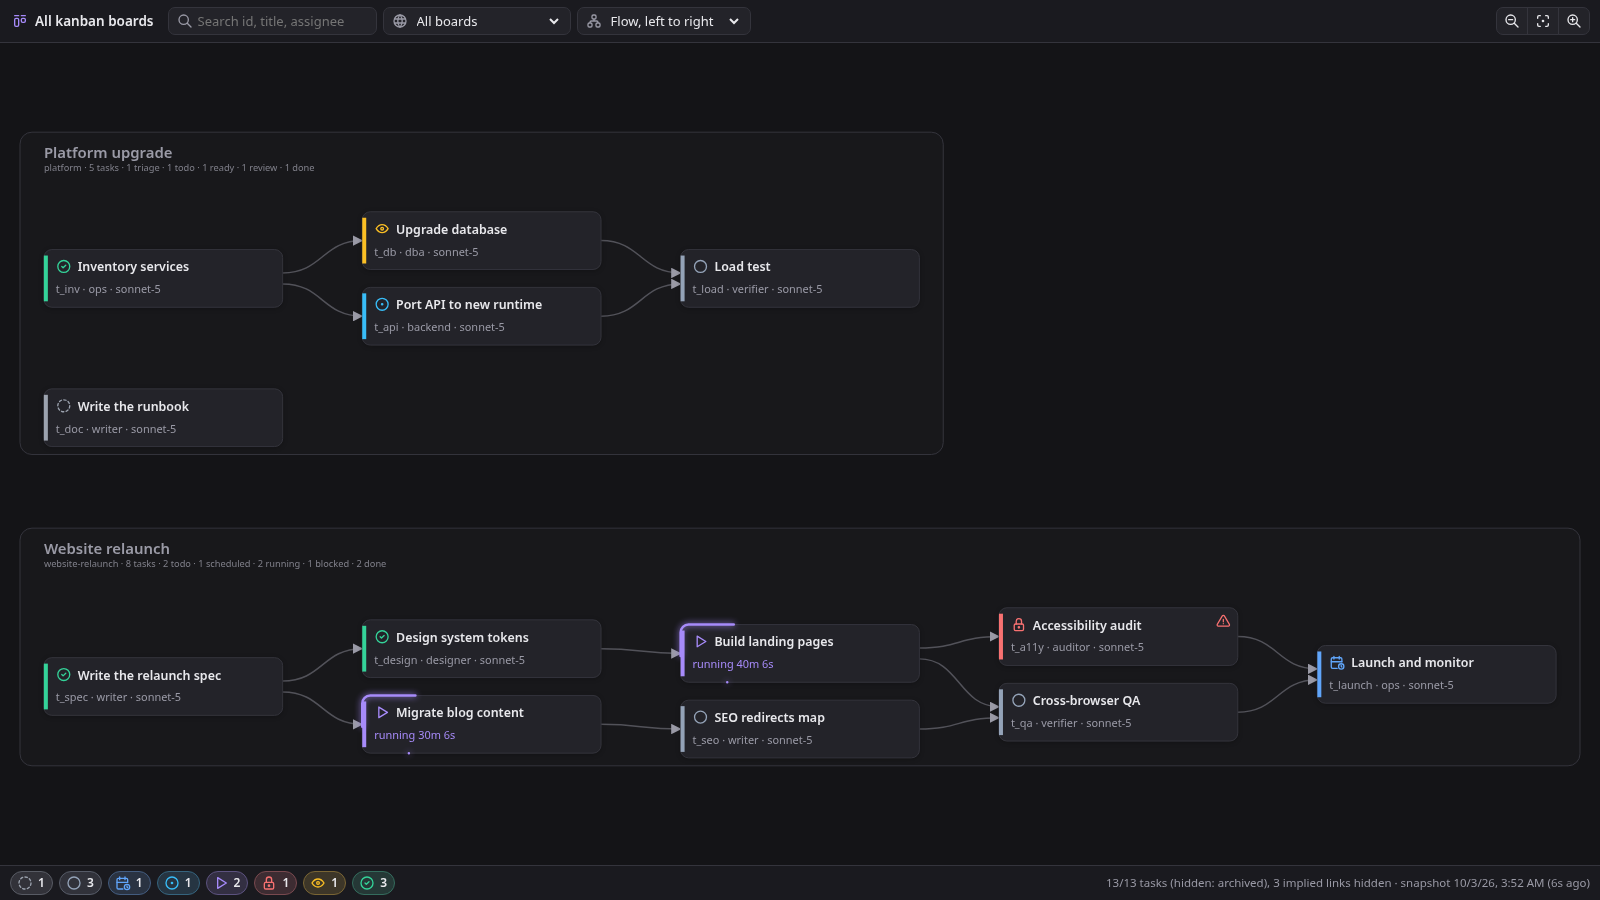
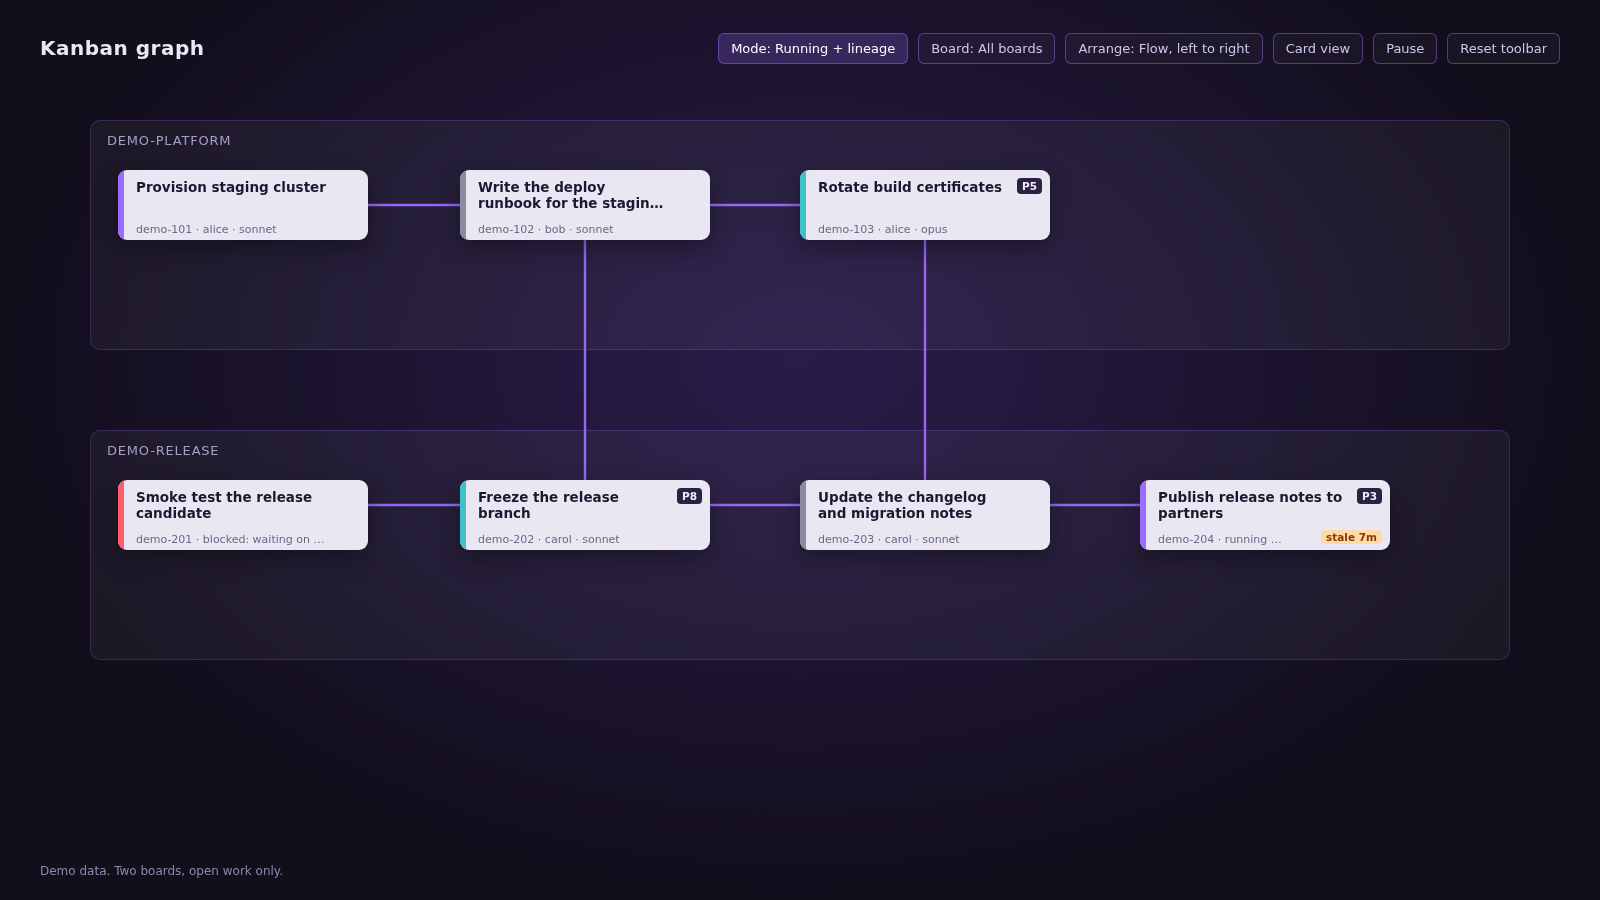
docs: replace page images with demo-data mocks of the 0.2.4 cards

diff --git a/README.md b/README.md
@@ -59,9 +59,9 @@ The next steps are in the [tutorial](docs/tutorial/getting-started.md). To write
 HTML file for CI (continuous integration) or sharing, see
 [Render a static snapshot](docs/how-to/snapshot.md).
 
-![Two boards in the graph, open work only](docs/assets/overview.png)
+![Two boards in the graph, open work only (mock with demo data)](docs/assets/overview.png)
 
-The image above is a static snapshot render, not the live page.
+The image above is a mock with demo data, not a capture of the live page.
 
 ## Settings
 

diff --git a/docs/how-to/snapshot.md b/docs/how-to/snapshot.md
@@ -18,9 +18,9 @@ The script prints the output path and counts:
 /home/you/.hermes/cache/kanban-graph/website-relaunch.html  boards=1 tasks=6 links=8
 ```
 
-Open the file in any browser. This is what you get:
+Open the file in any browser. A mock of the result, with demo data:
 
-![Two boards in the snapshot, open work only](../assets/overview.png)
+![Two boards, open work only (mock with demo data)](../assets/overview.png)
 
 ## Common variants
 
